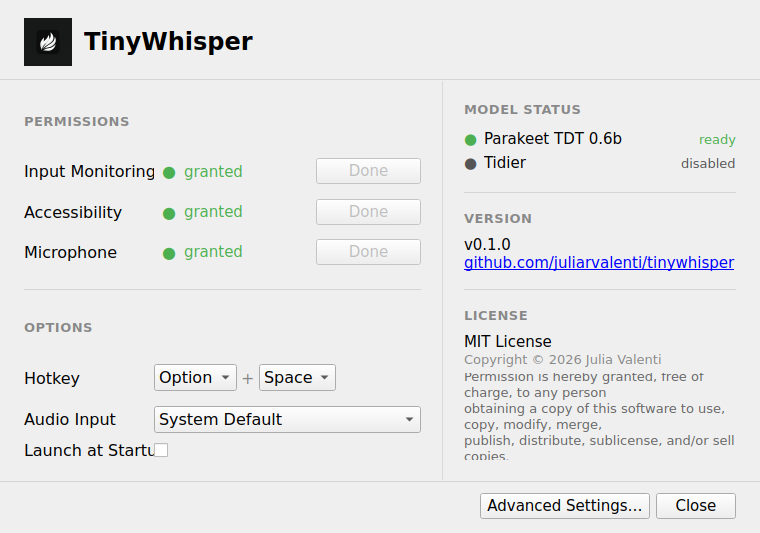
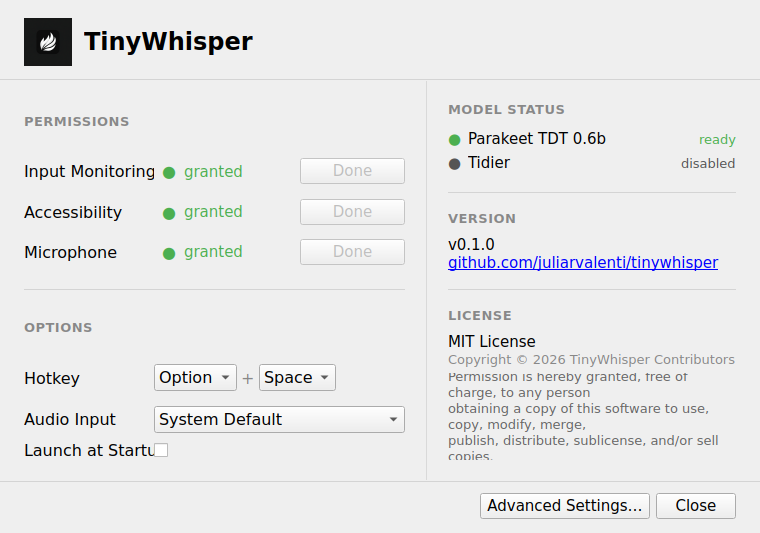
Remove personal name from bundle ID and copyright (#26)
- BUNDLE_ID: com.juliarvalenti.tinywhisper → app.tinywhisper
- Copyright: Julia Valenti → TinyWhisper Contributors
- build_app.py: auto-reset TCC perms on every build, remove --reset-perms flag
- CI: drop [skip ci] from screenshots commit, use paths-ignore + workflow_dispatch

diff --git a/tinywhisper/settings.py b/tinywhisper/settings.py
@@ -38,7 +38,7 @@ from tinywhisper.themes import THEMES, THEME_ORDER
 # ~/.config/tinywhisper/scripts/ at startup.  Settings just stores the path.
 # Known script names — checked against the destination dir to avoid touching
 # the bundle path (which lives under ~/Documents/) on every launch.
-_BUNDLED_SCRIPT_NAMES = ["claude-context.py", "README.md"]
+_BUNDLED_SCRIPT_NAMES = ["claude-context.py"]
 
 
 def _seed_example_scripts(scripts_dir: Path) -> None:
@@ -57,8 +57,7 @@ def _seed_example_scripts(scripts_dir: Path) -> None:
         dst = scripts_dir / name
         if src.exists():
             shutil.copy2(src, dst)
-            if dst.suffix != ".md":
-                dst.chmod(0o755)
+            dst.chmod(0o755)
 
 
 class WaveformPreview(QWidget):
@@ -497,9 +496,6 @@ class SettingsWindow(QWidget):
         self._view_scripts_btn = QPushButton("View Scripts Folder")
         self._view_scripts_btn.clicked.connect(self._open_scripts_folder)
         scripts_row.addWidget(self._view_scripts_btn)
-        self._view_readme_btn = QPushButton("View README")
-        self._view_readme_btn.clicked.connect(self._open_scripts_readme)
-        scripts_row.addWidget(self._view_readme_btn)
         scripts_row.addStretch()
         script_layout.addLayout(scripts_row)
         self._prompt_stack.addWidget(script_page)
@@ -596,7 +592,6 @@ class SettingsWindow(QWidget):
         self._prompt_mode_text.setEnabled(enabled)
         self._prompt_mode_script.setEnabled(enabled)
         self._prompt_stack.setEnabled(enabled)
-        self._view_readme_btn.setEnabled(enabled)
 
     def _open_scripts_folder(self):
         import subprocess
@@ -604,14 +599,6 @@ class SettingsWindow(QWidget):
         SCRIPTS_DIR.mkdir(parents=True, exist_ok=True)
         _seed_example_scripts(SCRIPTS_DIR)
         subprocess.Popen(["open", str(SCRIPTS_DIR)])
-
-    def _open_scripts_readme(self):
-        import subprocess
-        from tinywhisper.config import SCRIPTS_DIR
-        SCRIPTS_DIR.mkdir(parents=True, exist_ok=True)
-        _seed_example_scripts(SCRIPTS_DIR)
-        readme = SCRIPTS_DIR / "README.md"
-        subprocess.Popen(["open", str(readme)])
 
     # ── Overlay callbacks ─────────────────────────────────────────────────
 

diff --git a/build_app.py b/build_app.py
@@ -11,7 +11,6 @@ Usage:
     cp -r TinyWhisper.app /Applications/   # optional
 """
 
-import argparse
 import shutil
 import site
 import subprocess
@@ -21,7 +20,7 @@ import time
 from pathlib import Path
 
 APP_NAME = "TinyWhisper"
-BUNDLE_ID = "com.juliarvalenti.tinywhisper"
+BUNDLE_ID = "app.tinywhisper"
 VERSION = "0.1.0"
 
 ROOT = Path(__file__).parent
@@ -140,6 +139,10 @@ def build():
         check=True,
     )
 
+    # Reset TCC permissions so the fresh build gets clean permission prompts
+    # (macOS only — tccutil doesn't exist on Linux/CI, ignore failure)
+    subprocess.run(["tccutil", "reset", "All", BUNDLE_ID], check=False)
+
     print(f"Built {APP}")
     print(f"  Python: {framework}")
     if in_venv:
@@ -152,18 +155,6 @@ def build():
     print(f"  cp -r {APP} /Applications/")
 
 
-def reset_permissions():
-    subprocess.run(["tccutil", "reset", "All", BUNDLE_ID], check=True)
-    print(f"Permissions reset for {BUNDLE_ID}")
-
-
 if __name__ == "__main__":
-    parser = argparse.ArgumentParser()
-    parser.add_argument("--reset-perms", action="store_true",
-                        help="Reset macOS TCC permissions for the app bundle")
-    args = parser.parse_args()
+    build()
 
-    if args.reset_perms:
-        reset_permissions()
-    else:
-        build()

diff --git a/tests/test_build_pipeline.py b/tests/test_build_pipeline.py
@@ -124,6 +124,6 @@ def test_info_plist_has_correct_bundle_id() -> None:
     assert INFO_PLIST.is_file(), "Info.plist not found — run build tests in order"
     with open(INFO_PLIST, "rb") as f:
         plist = plistlib.load(f)
-    assert plist.get("CFBundleIdentifier") == "com.juliarvalenti.tinywhisper", (
+    assert plist.get("CFBundleIdentifier") == "app.tinywhisper", (
         f"Unexpected bundle ID: {plist.get('CFBundleIdentifier')}"
     )

diff --git a/tinywhisper/welcome.py b/tinywhisper/welcome.py
@@ -448,7 +448,7 @@ class WelcomeWindow(QWidget):
         right_lay.addWidget(mit)
 
         from datetime import date
-        copy_lbl = QLabel(f"Copyright © {date.today().year} Julia Valenti")
+        copy_lbl = QLabel(f"Copyright © {date.today().year} TinyWhisper Contributors")
         copy_lbl.setFont(_TINY)
         copy_lbl.setStyleSheet("color: #888;")
         right_lay.addWidget(copy_lbl)

diff --git a/.claude/skills/build/SKILL.md b/.claude/skills/build/SKILL.md
@@ -19,7 +19,7 @@ If the user asks to reset permissions (or uses `--reset-perms`):
 uv run --no-sync build_app.py --reset-perms
 ```
 
-This runs `tccutil reset All com.juliarvalenti.tinywhisper` to clear all TCC permissions, forcing macOS to re-prompt on next launch.
+This runs `tccutil reset All app.tinywhisper` to clear all TCC permissions, forcing macOS to re-prompt on next launch.
 
 ## Launch
 
@@ -44,6 +44,6 @@ open /Applications/TinyWhisper.app
 
 - If permissions are lost after rebuild, re-grant them in System Settings > Privacy & Security
 - If the app won't launch from Finder, it may already be running (check menu bar). Kill with `pkill -f TinyWhisper` first.
-- To reset all permissions: `tccutil reset All com.juliarvalenti.tinywhisper`
+- To reset all permissions: `tccutil reset All app.tinywhisper`
 - Crash on Finder launch? Check `~/.config/tinywhisper/tinywhisper.log` — Python exceptions are captured there even when launched without a terminal
 - Icon not showing in Finder? Run: `killall Finder; killall Dock` and `/System/Library/Frameworks/CoreServices.framework/Versions/A/Frameworks/LaunchServices.framework/Versions/A/Support/lsregister -f /Applications/TinyWhisper.app`
